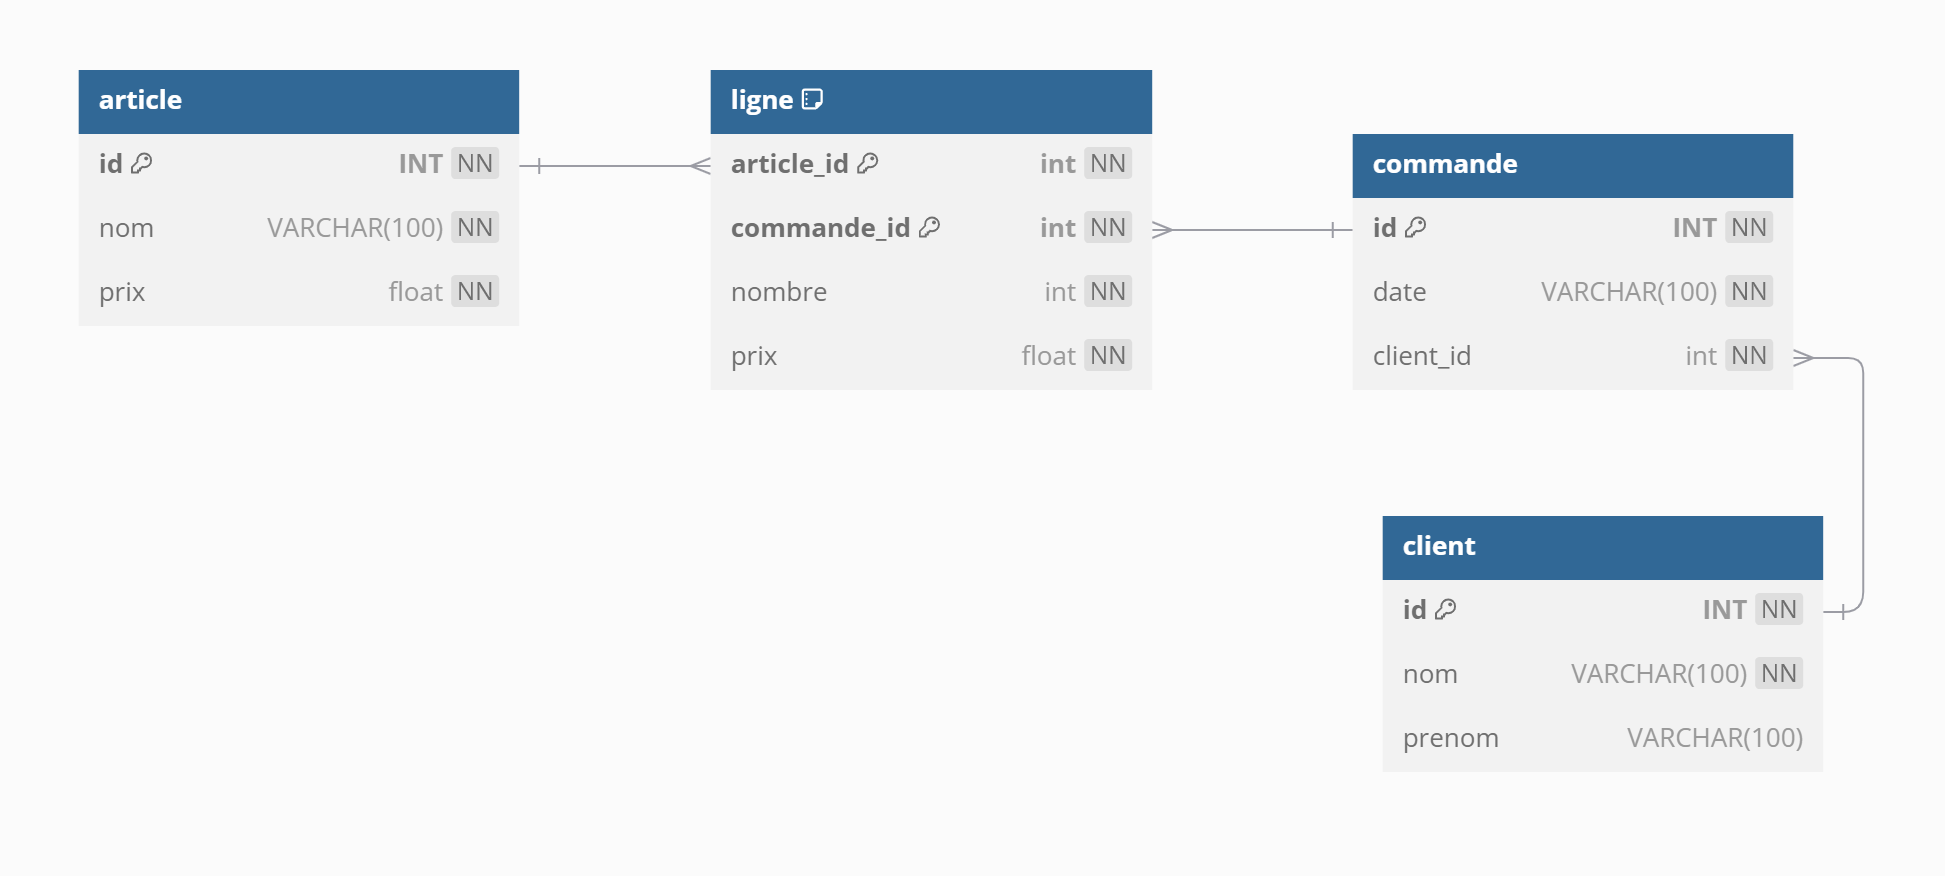
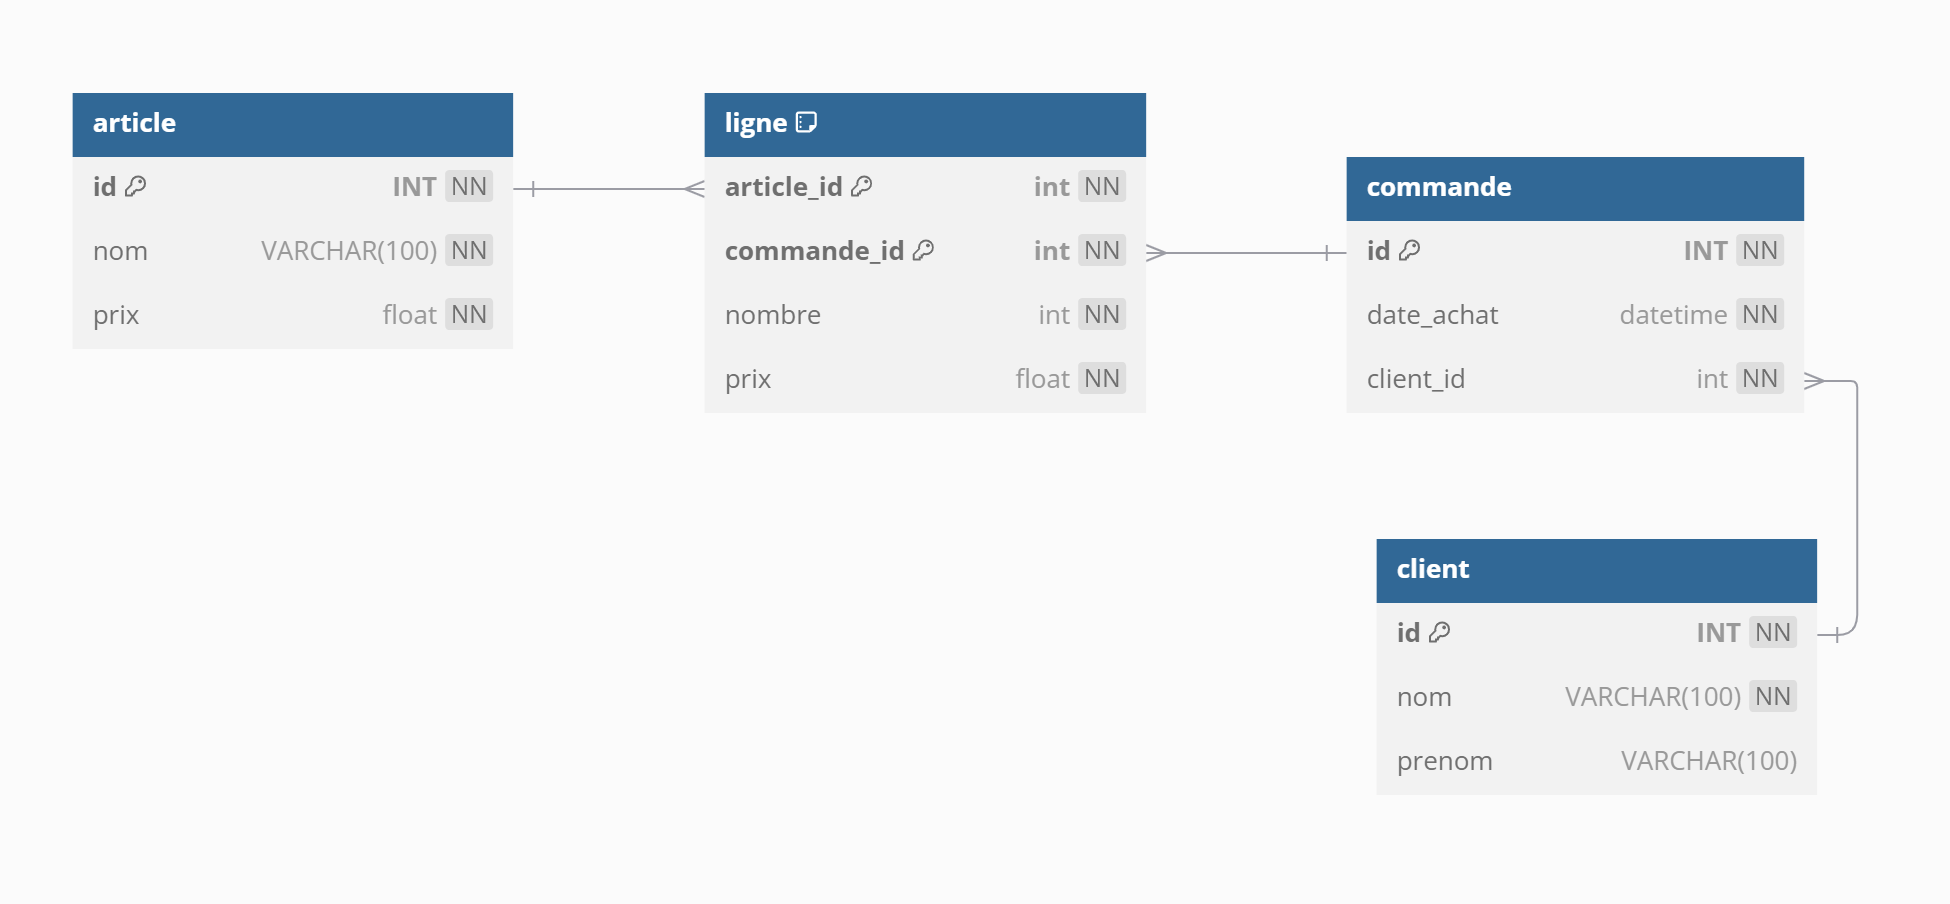
tp7

diff --git a/15 TP 07 Site e-commerce/README.md b/15 TP 07 Site e-commerce/README.md
@@ -14,9 +14,9 @@ CREATE TABLE client (
 
 CREATE TABLE commande (
   id INT PRIMARY KEY NOT NULL AUTO_INCREMENT,
-  datetime VARCHAR(100) NOT NULL,
+  date_achat DATETIME NOT NULL,
   client_id int NOT NULL,
-    CONSTRAINT PRIMARY pk_commande(id)
+  CONSTRAINT PRIMARY pk_commande(id)
 );
 
 CREATE TABLE article (
@@ -31,5 +31,29 @@ CREATE TABLE article (
 ALTER TABLE commande ADD FOREIGN KEY (client_id) REFERENCES client (id);
 ```
 
-# Objectifs
+## Partie 1 - Objectifs
  1- ajouter la table ligne
+
+## Partie 2 - Objectifs 
+1 - insérer les données  
+
+### la table article
+| id | nom | prix | 
+|----|---|---|
+| 1 | PlayStation 5 | 400.00 |
+| 2 | X box | 350.00 |
+| 3 | Machine à café | 300.00 |
+| 4 | PlayStation 3 | 100.00 |
+
+### la table client
+| id | nom | prenom | 
+|----|---|---|
+| 1 | Brad | PITT |
+| 2 | George | Cloney |
+| 3 | Jean | DUJARDIN |
+| 4 | PlayStation 3 | 100.00 |
+
+### la table commande
+| id | date_achat | client_id | 
+|----|---|---|
+| 1 | 08/09/2024 | 1 |
